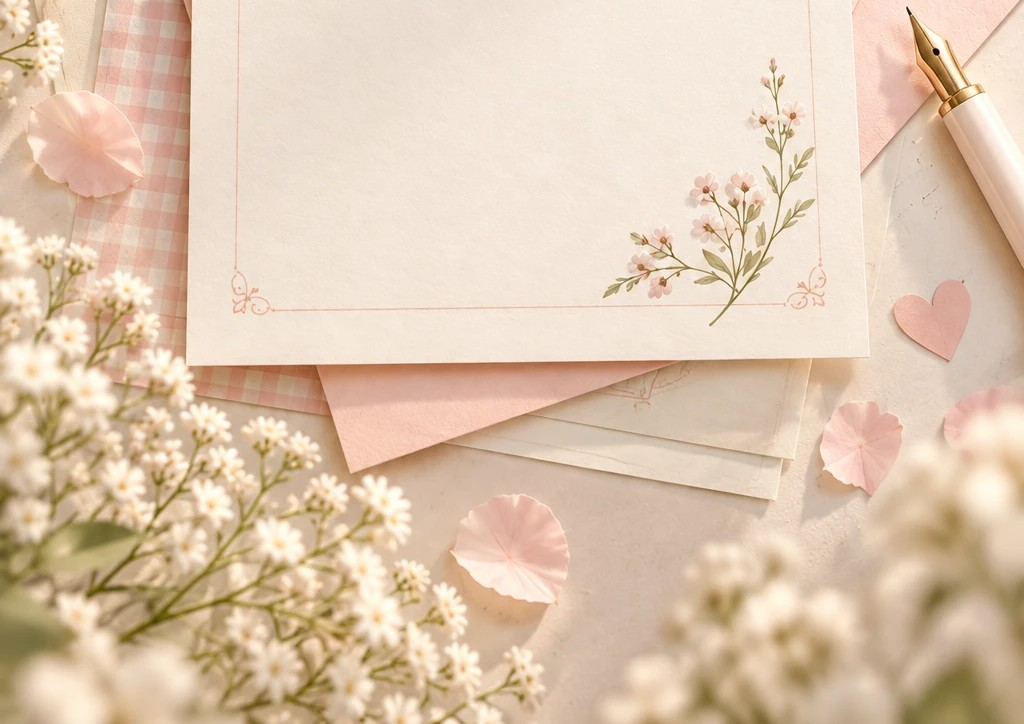
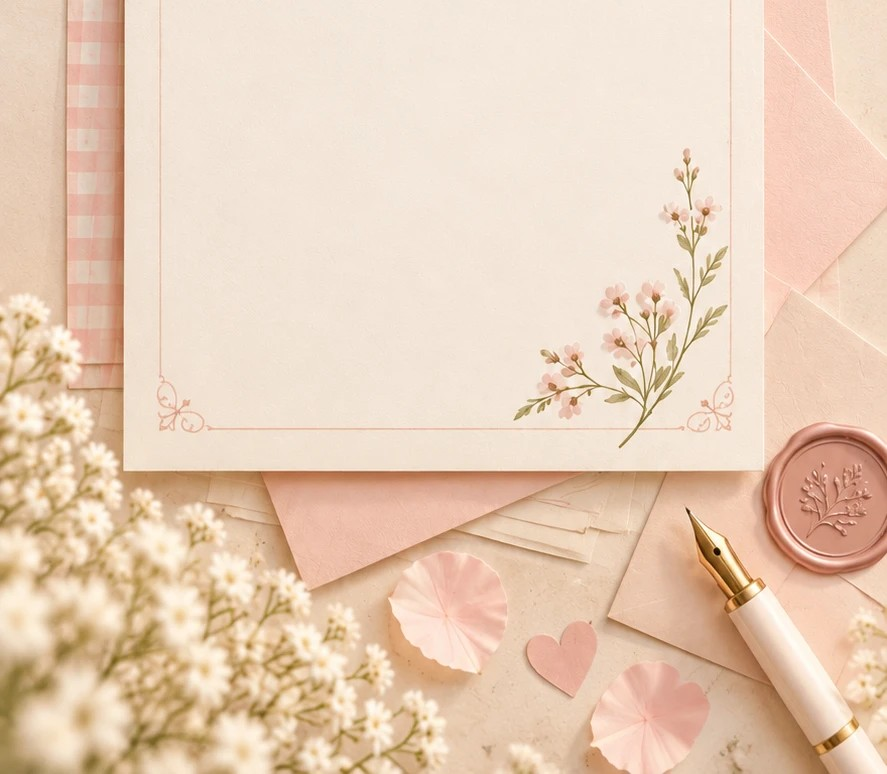
feat: re-slice tall stationery background for seamless letter

diff --git a/css/style.css b/css/style.css
@@ -230,10 +230,10 @@ svg.ic { width: 22px; height: 22px; fill: none; stroke: currentColor; stroke-wid
 .love-scene { max-width: 720px; margin: 28px auto 0; overflow-x: clip; animation: rise .8s ease both; }
 .ps { width: 100%; }
 @media (max-width: 600px) { .ps { width: 122%; margin-left: -11%; } }
-.ps-top { aspect-ratio: 1024 / 770; background: url(../images/love/letter-top.jpg) center / 100% 100% no-repeat; }
+.ps-top { aspect-ratio: 887 / 700; background: url(../images/love/letter-top.jpg) center / 100% 100% no-repeat; }
 .ps-mid { display: flow-root; background: url(../images/love/letter-mid.jpg) center / 100% 100% no-repeat; margin: -1px 0; }
-.ps-content { margin: -31% 0 -3%; padding: 0 22% 0 21%; position: relative; text-align: center; }
-.ps-bot { aspect-ratio: 1024 / 724; background: url(../images/love/letter-bot.jpg) center / 100% 100% no-repeat; }
+.ps-content { margin: -40.6% 0 -8%; padding: 0 21%; position: relative; text-align: center; }
+.ps-bot { aspect-ratio: 887 / 774; background: url(../images/love/letter-bot.jpg) center / 100% 100% no-repeat; }
 .ps .polaroid { width: min(64%, 230px); margin: 0 auto 22px; }
 .ps .letter { font-size: clamp(1.2rem, 4.3vw, 1.65rem); line-height: 1.5; max-width: none; }
 .love-scene .btn-row { margin-top: -6%; position: relative; }
